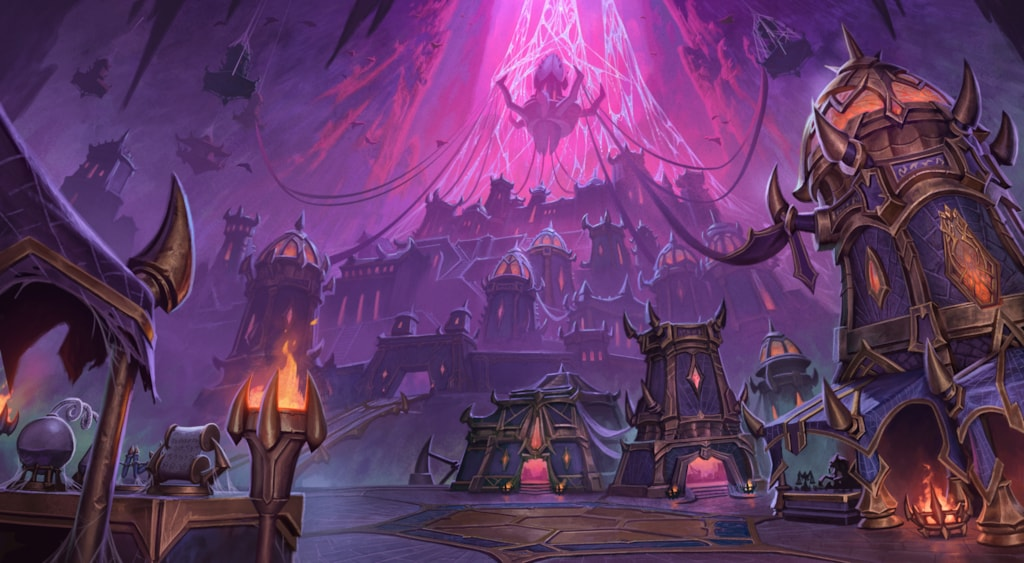
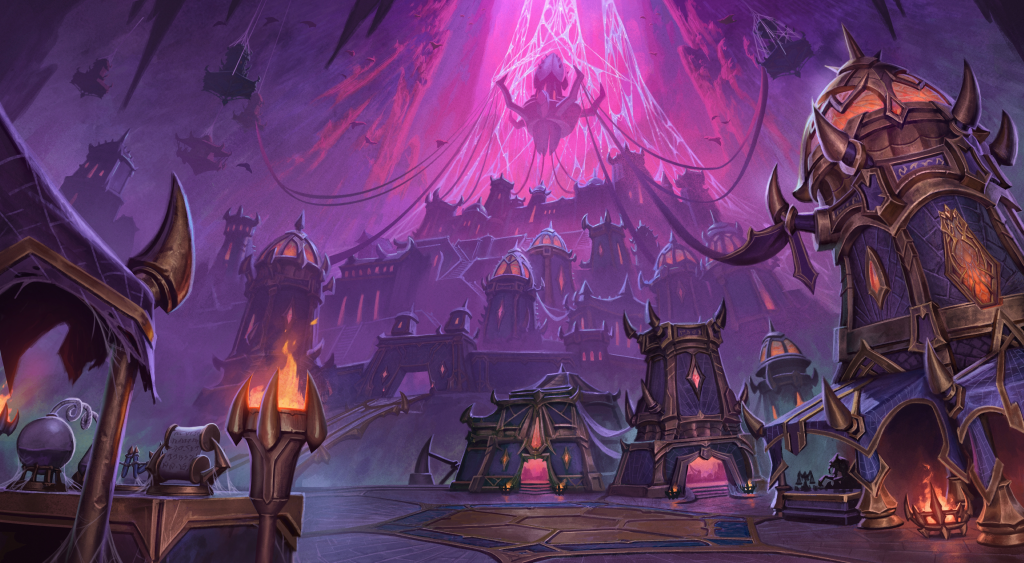
Image replacement for performance test

Changed region(s): [[0.7188, 0.8455, 0.75, 0.8757], [0.5, 0.8455, 0.5312, 0.8757]]

diff --git a/src/components/Raid/Raid.tsx b/src/components/Raid/Raid.tsx
@@ -41,9 +41,9 @@ const Raid = ({ bosses, raid, profiles }: Props) => {
           alt=""
           className="object-cover"
           fill={true}
-          src="/images/raids/nerubar-palace.jpg"
+          src="/images/raids/nerubar-palace.png"
         />
-        <div className="relative p-4 pt-32 bg-gradient-to-t from-dark via-dark/20 to-dark/10">
+        <div className="relative p-4 pt-32 bg-gradient-to-r from-dark/50 via-dark/30 to-dark/10">
           <div className="my-4 mx-1">
             <h3 className="text-3xl relative">
               <span className="absolute text-dark [text-shadow:_0_0_4px_rgb(0_0_0_/_40%)]">
